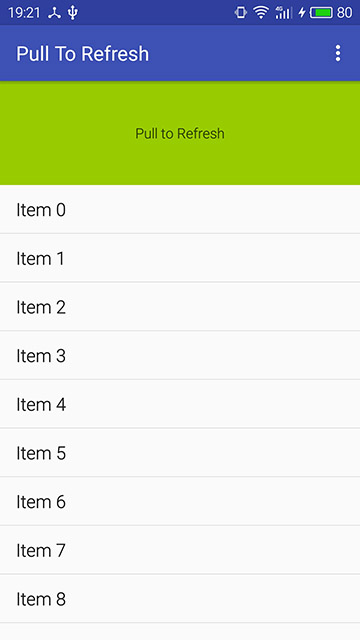
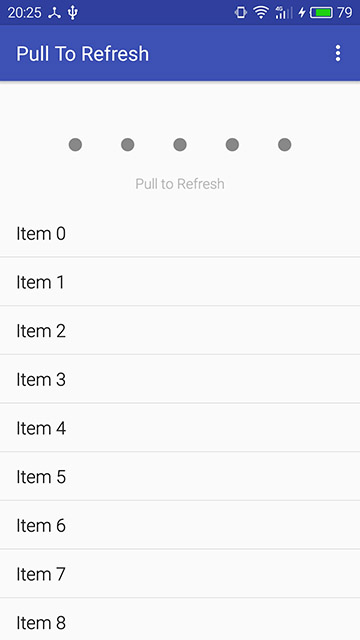
Add animation

diff --git a/app/src/main/java/me/sxwang/pulltorefresh/RefreshHeader.java b/app/src/main/java/me/sxwang/pulltorefresh/RefreshHeader.java
@@ -1,6 +1,10 @@
 package me.sxwang.pulltorefresh;
 
 import android.content.Context;
+import android.graphics.Canvas;
+import android.graphics.Color;
+import android.graphics.Paint;
+import android.graphics.RectF;
 import android.support.v4.widget.TextViewCompat;
 import android.util.AttributeSet;
 import android.widget.RelativeLayout;
@@ -13,6 +17,14 @@ public class RefreshHeader extends RelativeLayout {
 
     private int mProgress;
     private TextView mTextView;
+
+    private int mCircleCount = 5;
+    private int mCircleRadius = 20;
+    private int mCircleBaseGap = 30;
+    private int mCircleGap = mCircleBaseGap;
+
+    private RectF mCircleRectF = new RectF();
+    private Paint mCirclePaint = new Paint(Paint.ANTI_ALIAS_FLAG);
 
     public RefreshHeader(Context context) {
         this(context, null);
@@ -35,13 +47,36 @@ public class RefreshHeader extends RelativeLayout {
         addView(mTextView);
 
         LayoutParams lp = new LayoutParams(LayoutParams.WRAP_CONTENT, LayoutParams.WRAP_CONTENT);
-        lp.addRule(CENTER_IN_PARENT);
+        lp.bottomMargin = Utils.dpToPx(getContext(), 16);
+        lp.addRule(CENTER_HORIZONTAL);
+        lp.addRule(ALIGN_PARENT_BOTTOM);
         mTextView.setLayoutParams(lp);
+
+        mCirclePaint.setColor(Color.GRAY);
+        setWillNotDraw(false);
+    }
+
+    @Override
+    protected void onDraw(Canvas canvas) {
+        super.onDraw(canvas);
+        int cX = canvas.getWidth() / 2, cY = canvas.getHeight() / 2;
+        int startX = (canvas.getWidth() - mCircleCount * mCircleRadius * 2 - (mCircleCount - 1) * mCircleGap) / 2;
+        mCircleRectF.top = cY - mCircleRadius;
+        mCircleRectF.bottom = cY + mCircleRadius;
+
+        for (int i = 0; i < mCircleCount; i++) {
+            mCircleRectF.left = startX + i * 2 * mCircleRadius + i * mCircleGap;
+            mCircleRectF.right = mCircleRectF.left + 2 * mCircleRadius;
+            canvas.drawOval(mCircleRectF, mCirclePaint);
+        }
     }
 
     private void refresh() {
-        float alpha = (float) (mProgress / 100.0);
-        mTextView.setAlpha(alpha);
+        float percent = (float) (mProgress / 100.0);
+        mTextView.setAlpha((float) (percent / 3.0));
+
+        mCircleGap = Math.round(mCircleBaseGap + 90 * percent);
+        invalidate();
 
         if (mProgress == 0) {
             mTextView.setText("Pull to Refresh");

diff --git a/app/src/main/java/me/sxwang/pulltorefresh/PullToRefreshLayout.java b/app/src/main/java/me/sxwang/pulltorefresh/PullToRefreshLayout.java
@@ -43,10 +43,6 @@ public class PullToRefreshLayout extends LinearLayout {
     private void init(Context context, AttributeSet attrs, int defStyleAttr) {
     }
 
-    private int dpToPx(int dp) {
-        return Math.round(getContext().getResources().getDisplayMetrics().density * dp);
-    }
-
     @Override
     protected void onFinishInflate() {
         super.onFinishInflate();
@@ -86,7 +82,7 @@ public class PullToRefreshLayout extends LinearLayout {
         float scrollY = event.getY() - mActionDownY;
 //        Log.i(TAG, "onTouchEvent: " + scrollY);
 
-        int scrollThreshold = dpToPx(DEFAULT_SCROLL_THRESHOLD);
+        int scrollThreshold = Utils.dpToPx(getContext(), DEFAULT_SCROLL_THRESHOLD);
         if (event.getActionMasked() == MotionEvent.ACTION_UP) {
             if (scrollY < scrollThreshold) {
                 collapseHeader();
@@ -100,7 +96,7 @@ public class PullToRefreshLayout extends LinearLayout {
         }
 
         // animating progress
-        int maxScrollHeight = dpToPx(DEFAULT_MAX_SCROLL_HEIGHT);
+        int maxScrollHeight = Utils.dpToPx(getContext(), DEFAULT_MAX_SCROLL_HEIGHT);
         if (scrollY <= maxScrollHeight) {
             ViewGroup.LayoutParams lp = mRefreshHeader.getLayoutParams();
             lp.height = (int) (scrollY * 0.55);

diff --git a/app/src/main/java/me/sxwang/pulltorefresh/Utils.java b/app/src/main/java/me/sxwang/pulltorefresh/Utils.java
@@ -1,0 +1,12 @@
+package me.sxwang.pulltorefresh;
+
+import android.content.Context;
+
+/**
+ * Created by wang on 3/18/16.
+ */
+public class Utils {
+    public static int dpToPx(Context context, float dps) {
+        return Math.round(dps * context.getResources().getDisplayMetrics().density);
+    }
+}

diff --git a/app/src/main/java/me/sxwang/pulltorefresh/MainActivity.java b/app/src/main/java/me/sxwang/pulltorefresh/MainActivity.java
@@ -36,6 +36,7 @@ public class MainActivity extends AppCompatActivity {
         }
         mListView = (ListView) findViewById(android.R.id.list);
         mListView.setAdapter(new ArrayAdapter<String>(this,android.R.layout.simple_list_item_1,list));
+
     }
 
     @Override
